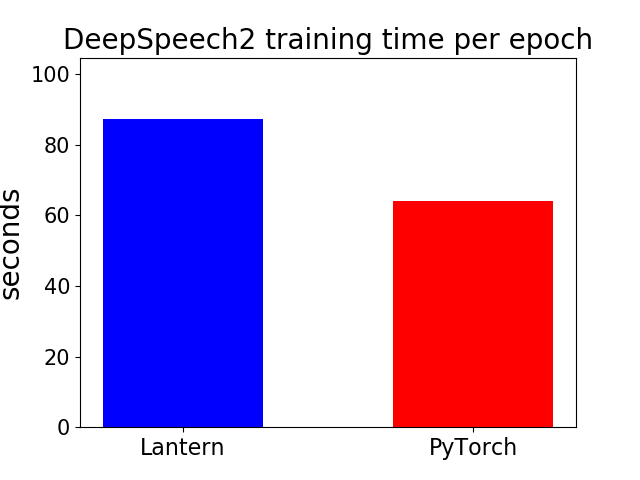
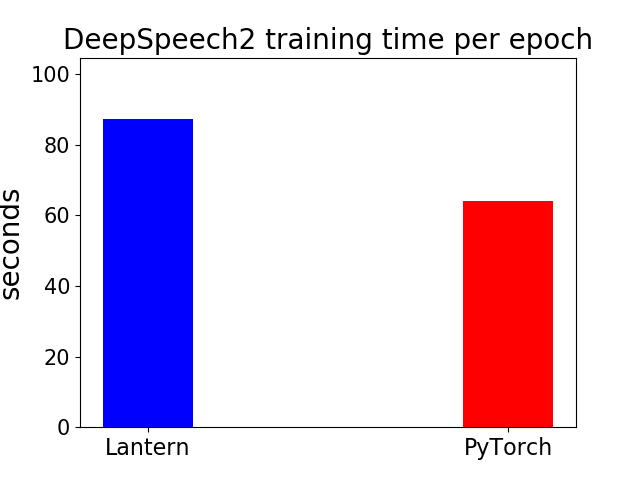
thiner plot

Changed region(s): [[0.1562, 0.25, 0.4375, 0.9688], [0.5938, 0.4062, 0.875, 0.9688]]

diff --git a/src/out/PLDI19evaluation/plot.py b/src/out/PLDI19evaluation/plot.py
@@ -83,7 +83,7 @@ def plot(files, model):
   N = len(labels)
   ind = np.arange(1, N+1)
 
-  ps = plt.bar(ind, loopTimes, width = 0.55)
+  ps = plt.bar(ind, loopTimes, width = 0.25)
   for i in range(N):
     ps[i].set_facecolor(getColor(labels[i]))
   ax.set_xticks(ind)
